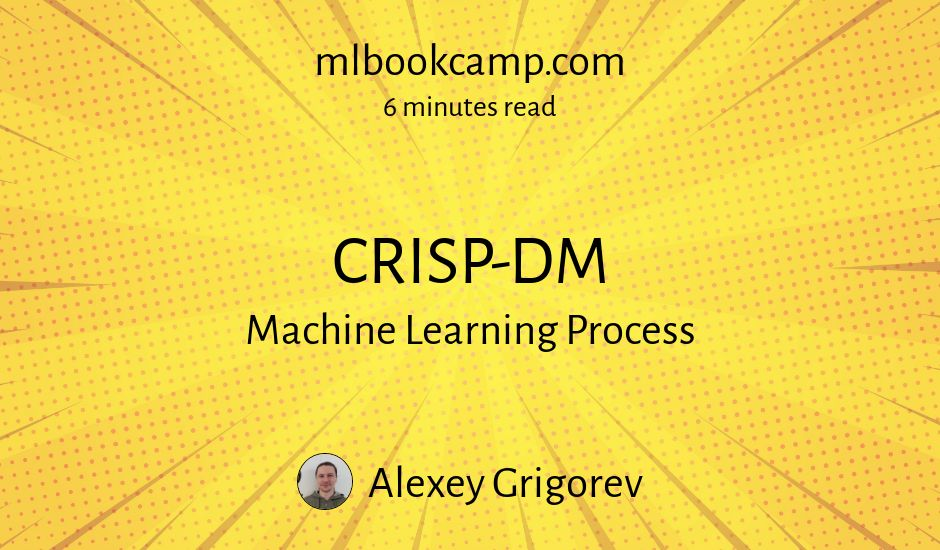
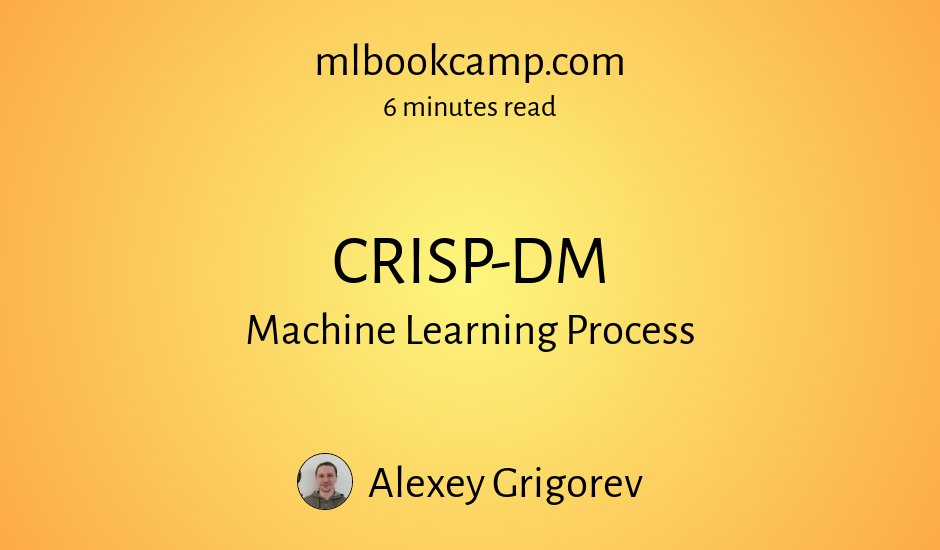
preview changed

diff --git a/previews/styles.css b/previews/styles.css
@@ -34,10 +34,12 @@ h4 {
 }
 
 #main {
-  background-image: url('923.jpg');
+  /* background-image: url('radial.png');
   background-size: 120%;
   background-position: center;
-  background-repeat: no-repeat;
+  background-repeat: no-repeat; */
+  background: rgb(251,243,63);
+  background: radial-gradient(circle, rgba(251,243,63,0.680062454737974) 0%, rgba(252,171,70,1) 100%);
   text-align: center;
   width: 940px;
   height: 550px;

diff --git a/previews/render.js b/previews/render.js
@@ -36,7 +36,10 @@ const { title, subtitle, time, output } = config;
     document.getElementById('subtitle').textContent = subtitle;
   }, { title, subtitle, time });
 
-  await page.screenshot({ path: output });
+  await page.screenshot({ 
+    path: output,
+    quality: 85
+  });
  
   await browser.close();
 })();
